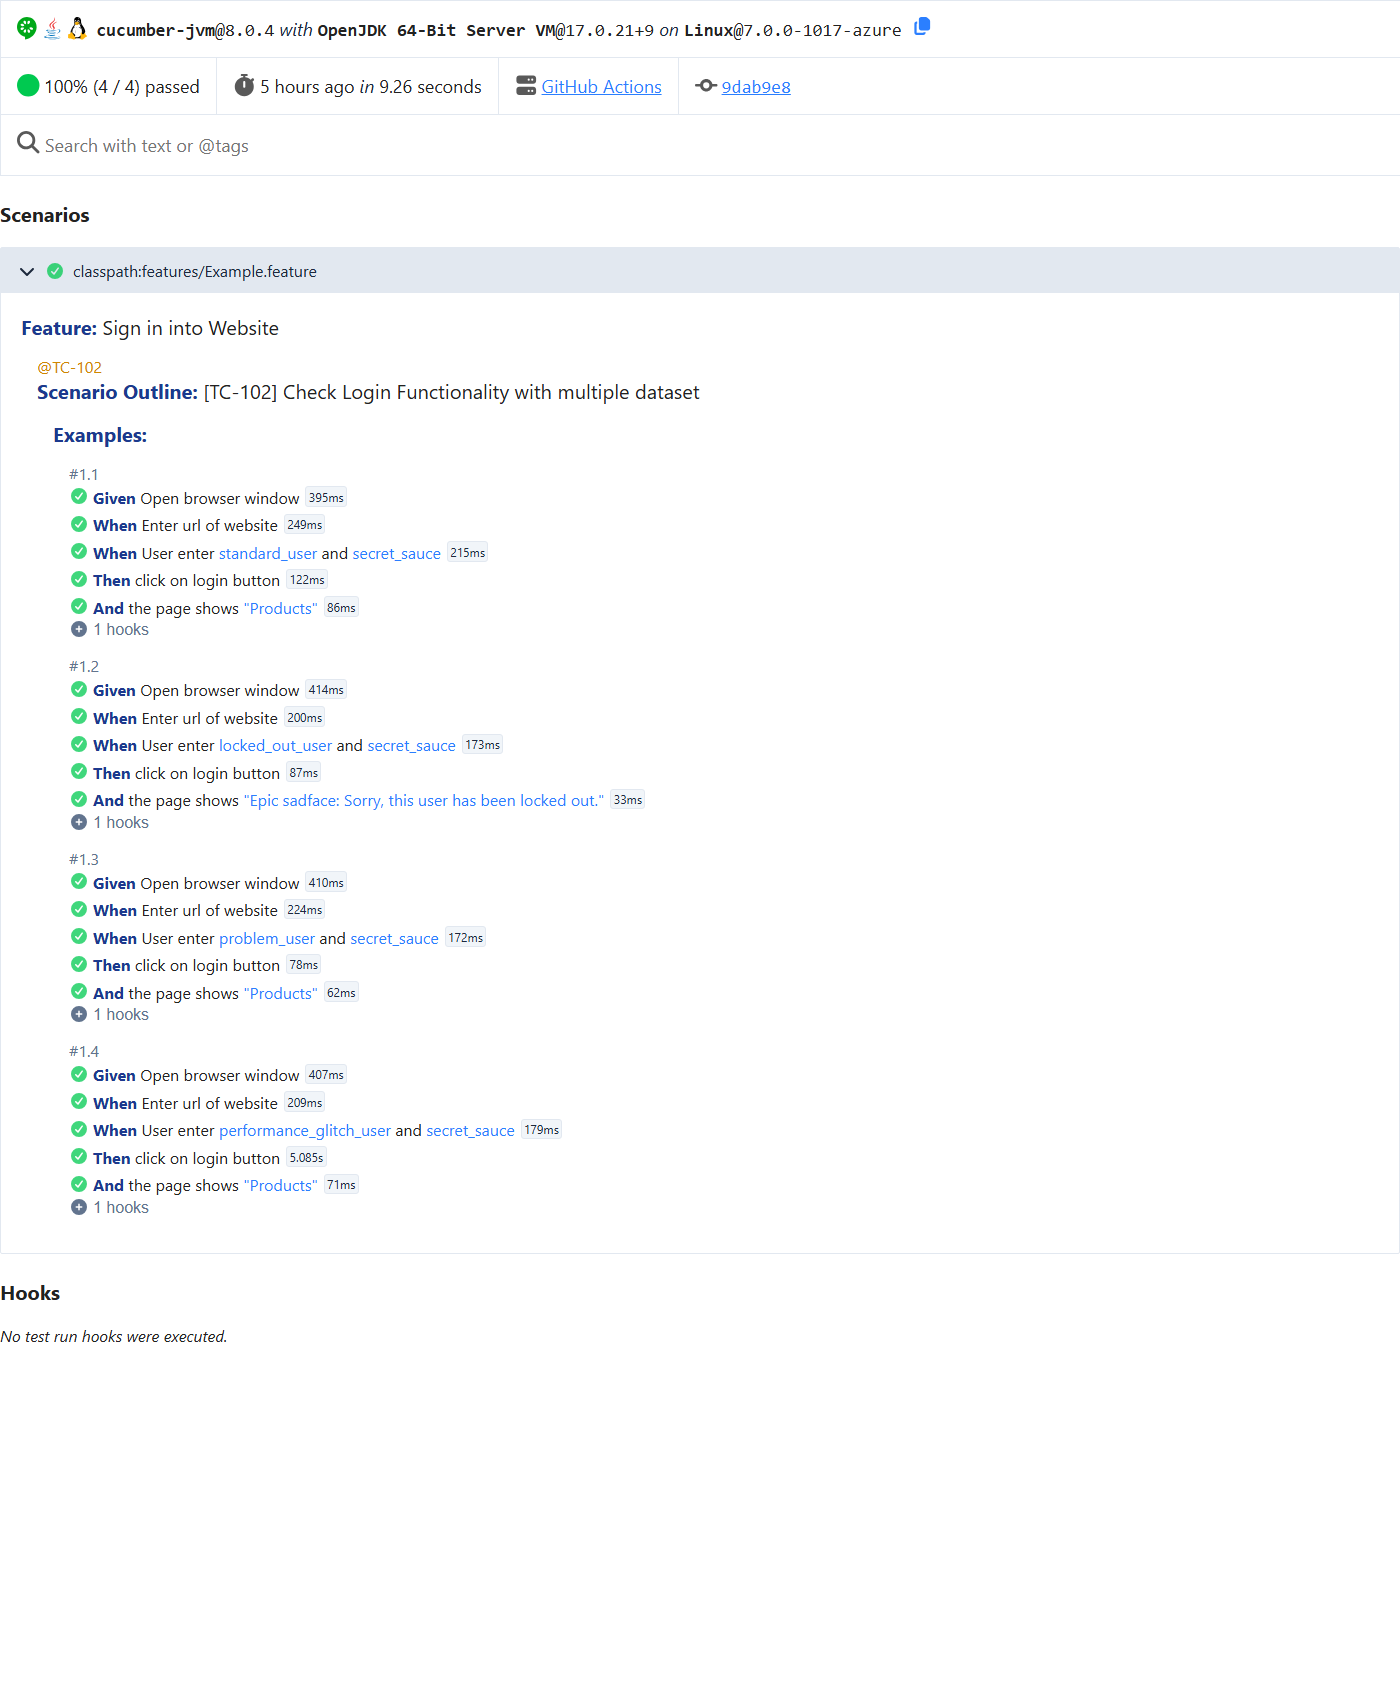
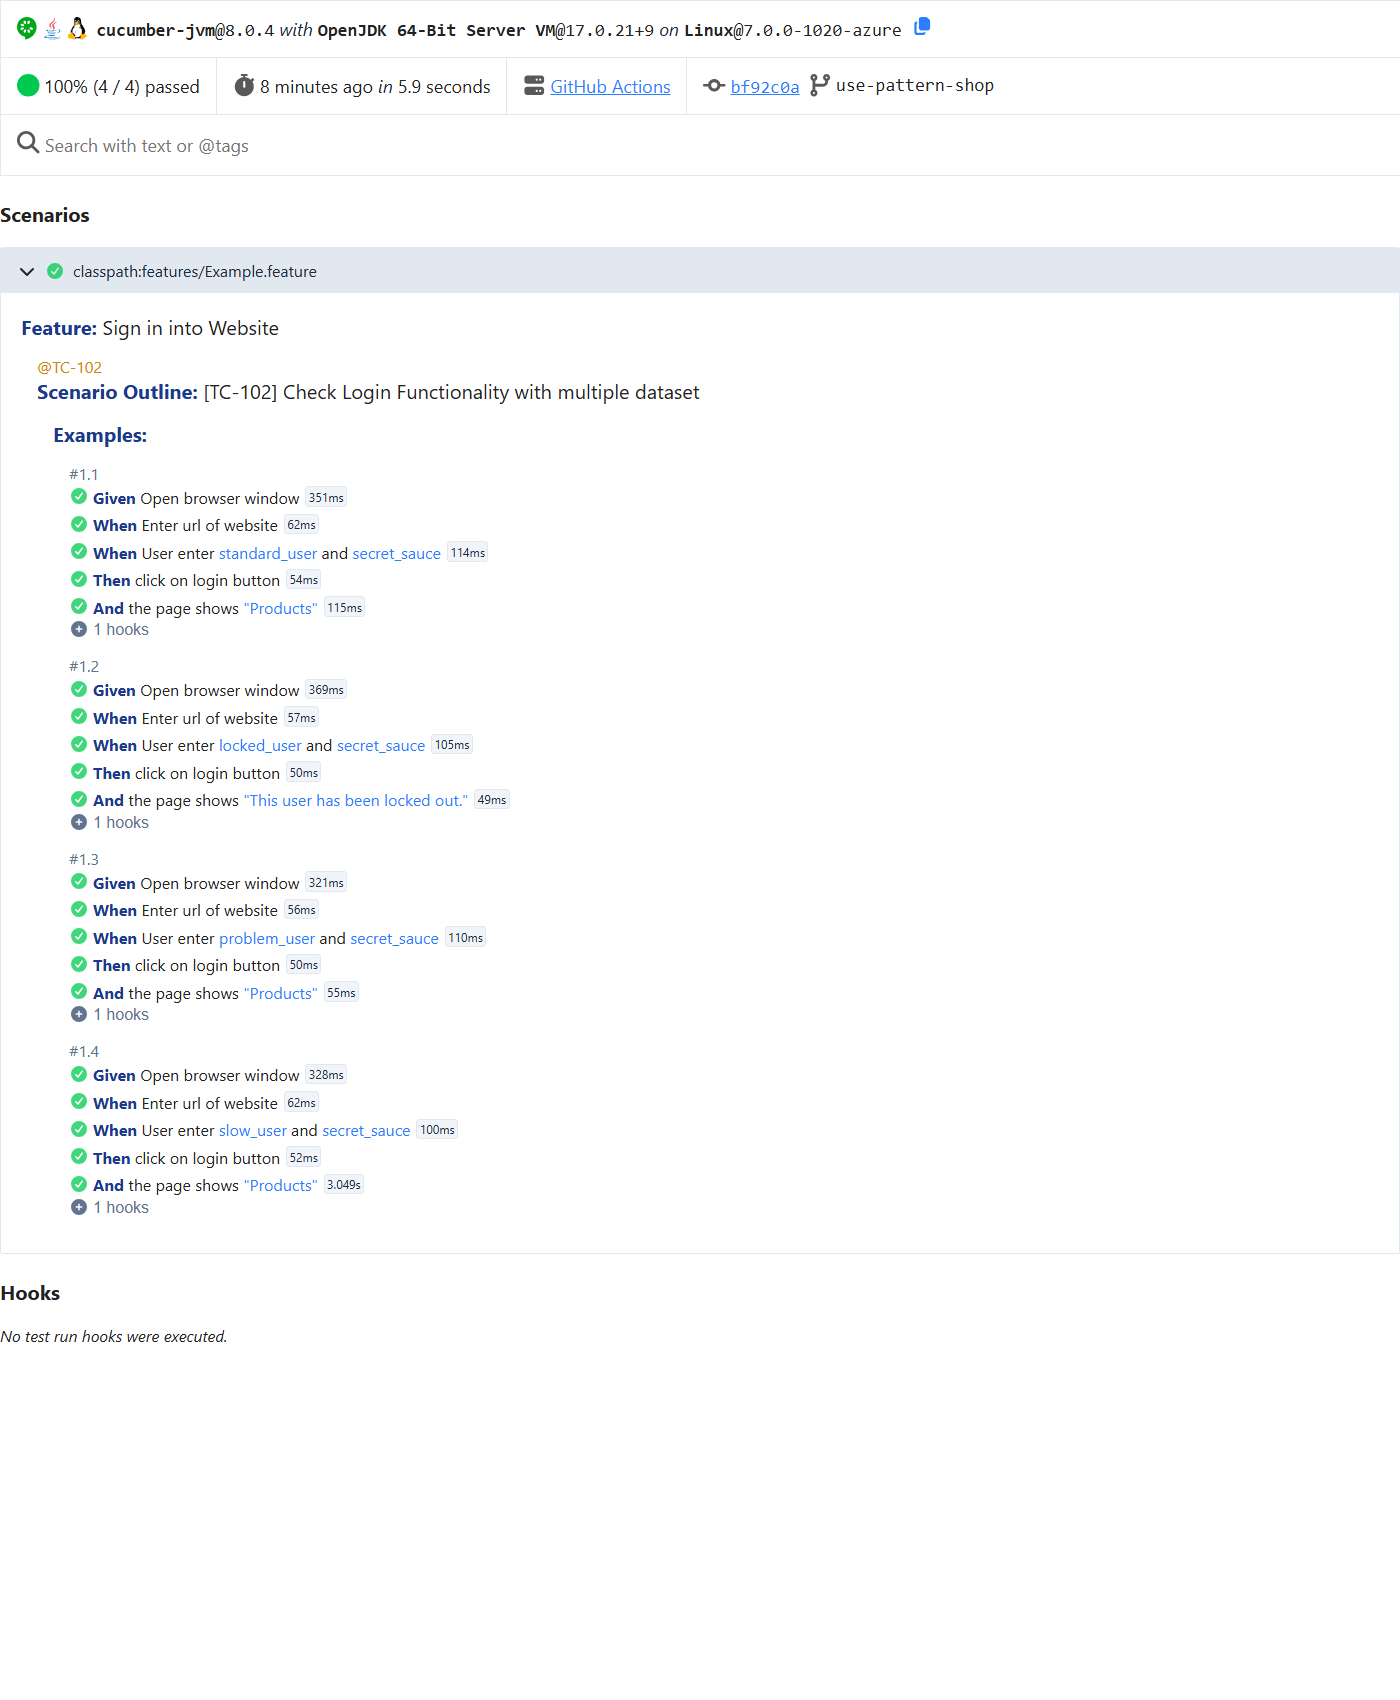
Run the login outline against Pattern Shop instead of saucedemo.com (#7)
* Run the login outline against Pattern Shop instead of saucedemo.com

TC-102 now logs in to my own demo shop, started from its image in CI, so the
outline no longer depends on a public site. Same four kinds of user: standard,
locked, problem and slow (slow_user replaces performance_glitch_user; the wait
still handles it). ShopLoginPage uses the shop's data-testid locators.

* Report screenshot from this branch's CI run (Pattern Shop outline)

---------

diff --git a/src/test/java/com/niranjankagri/cucumberdemo/pages/ShopLoginPage.java b/src/test/java/com/niranjankagri/cucumberdemo/pages/ShopLoginPage.java
@@ -9,30 +9,31 @@ import com.niranjankagri.cucumberdemo.utils.Config;
 import com.niranjankagri.cucumberdemo.utils.DriverManager;
 
 /**
- * Page object of the Sauce Demo login page (saucedemo.com) and what the browser shows
- * after a login attempt.
+ * Page object of the Pattern Shop sign-in page and what the browser shows after a login
+ * attempt. Pattern Shop is my own demo shop (github.com/niranjankagri/pattern-shop-demo-app);
+ * every element a test needs has a data-testid, so the locators do not depend on layout.
  *
  * Holds the locators and page actions; the step definitions (ExampleStpDef) only call
  * these methods and keep the assertions.
  */
-public class SauceDemoLoginPage {
+public class ShopLoginPage {
 
 	// Locators
-	private static final By USERNAME = By.id("user-name");
-	private static final By PASSWORD = By.id("password");
-	private static final By LOGIN_BUTTON = By.id("login-button");
+	private static final By USERNAME = By.cssSelector("[data-testid='username']");
+	private static final By PASSWORD = By.cssSelector("[data-testid='password']");
+	private static final By LOGIN_BUTTON = By.cssSelector("[data-testid='login-button']");
 	// The whole page, to check which text it shows after the login
 	private static final By BODY = By.tagName("body");
 
-	/** Opens the login page (sauceDemoUrl from config.properties). */
+	/** Opens the sign-in page (shopUrl from config.properties). */
 	public void open() {
-		DriverManager.getDriver().get(Config.get("sauceDemoUrl"));
+		DriverManager.getDriver().get(Config.get("shopUrl"));
 	}
 
 	/**
 	 * Types a user name and password into the login form.
 	 *
-	 * @param username a Sauce Demo user, e.g. standard_user
+	 * @param username a Pattern Shop demo user, e.g. standard_user
 	 * @param password its password
 	 */
 	public void enterCredentials(String username, String password) {
@@ -47,7 +48,7 @@ public class SauceDemoLoginPage {
 
 	/**
 	 * Waits until the page contains the text, up to waitSeconds from config.properties
-	 * (performance_glitch_user is slow on purpose).
+	 * (slow_user is slow on purpose).
 	 *
 	 * @param expected text the page must show
 	 * @throws org.openqa.selenium.TimeoutException when the text does not appear in time

diff --git a/src/test/java/com/niranjankagri/cucumberdemo/stepdefinitions/ExampleStpDef.java b/src/test/java/com/niranjankagri/cucumberdemo/stepdefinitions/ExampleStpDef.java
@@ -6,18 +6,18 @@ import io.cucumber.java.en.Given;
 import io.cucumber.java.en.Then;
 import io.cucumber.java.en.When;
 
-import com.niranjankagri.cucumberdemo.pages.SauceDemoLoginPage;
+import com.niranjankagri.cucumberdemo.pages.ShopLoginPage;
 import com.niranjankagri.cucumberdemo.utils.DriverManager;
 
 /**
- * Steps of features/Example.feature: the Sauce Demo login, run once per row of its
+ * Steps of features/Example.feature: the Pattern Shop login, run once per row of its
  * Examples table (four demo users, each with the result the page must show).
- * Locators and page actions are in {@link SauceDemoLoginPage}.
+ * Locators and page actions are in {@link ShopLoginPage}.
  */
 public class ExampleStpDef {
 
-	// Page object of the Sauce Demo login; it uses the browser of the running scenario
-	private final SauceDemoLoginPage loginPage = new SauceDemoLoginPage();
+	// Page object of the Pattern Shop sign-in; it uses the browser of the running scenario
+	private final ShopLoginPage loginPage = new ShopLoginPage();
 
 	/** Starts the browser from config.properties; the @After hook closes it. */
 	@Given("Open browser window")
@@ -25,7 +25,7 @@ public class ExampleStpDef {
 		DriverManager.start();
 	}
 
-	/** Opens the Sauce Demo login page. */
+	/** Opens the Pattern Shop sign-in page. */
 	@When("Enter url of website")
 	public void enter_the_url_of_website() {
 		loginPage.open();

diff --git a/src/test/java/com/niranjankagri/cucumberdemo/runners/ExampleRunner.java b/src/test/java/com/niranjankagri/cucumberdemo/runners/ExampleRunner.java
@@ -10,10 +10,10 @@ import org.junit.platform.suite.api.SelectClasspathResource;
 import org.junit.platform.suite.api.Suite;
 
 /**
- * JUnit Platform suite for Example.feature (Sauce Demo login outline, 4 users).
+ * JUnit Platform suite for Example.feature (Pattern Shop login outline, 4 users).
  * The Cucumber engine runs the feature file from src/test/resources/features, with the step definitions and
  * hooks from the glue packages (stepdefinitions, hooks).
- * Report: target/cucumber-reports/sauce-demo-login.html (and .json); "pretty" prints each step.
+ * Report: target/cucumber-reports/shop-login.html (and .json); "pretty" prints each step.
  * Run alone: mvn test -Dtest=ExampleRunner
  */
 @Suite
@@ -21,7 +21,7 @@ import org.junit.platform.suite.api.Suite;
 @SelectClasspathResource("features/Example.feature")
 @ConfigurationParameter(key = GLUE_PROPERTY_NAME, value = "com.niranjankagri.cucumberdemo.stepdefinitions, com.niranjankagri.cucumberdemo.hooks")
 @ConfigurationParameter(key = PLUGIN_PROPERTY_NAME,
-		value = "pretty, html:target/cucumber-reports/sauce-demo-login.html, json:target/cucumber-reports/sauce-demo-login.json")
+		value = "pretty, html:target/cucumber-reports/shop-login.html, json:target/cucumber-reports/shop-login.json")
 @ConfigurationParameter(key = ANSI_COLORS_DISABLED_PROPERTY_NAME, value = "true")
 public class ExampleRunner {
 }

diff --git a/README.md b/README.md
@@ -8,7 +8,8 @@ browser and config helpers. The commit history shows every step.
 - Layered: runners, step definitions, page objects, hooks and utils in their own packages,
   feature files and settings in `src/test/resources`.
 - Two features: a login on a public practice site, and a Scenario Outline that logs in four
-  Sauce Demo users and checks the result each one must get.
+  users of [Pattern Shop](https://github.com/niranjankagri/pattern-shop-demo-app) (my own demo shop) and checks the
+  result each one must get.
 - Cucumber hooks: one browser per scenario, always closed, a screenshot attached on failure.
 - Browser, headless mode, URLs and waits from `config.properties`, overridable with `-D`.
 - Cucumber HTML and JSON reports per runner, plus a report demo with a failure and a skip on purpose.
@@ -38,7 +39,7 @@ browser and config helpers. The commit history shows every step.
 | Selenium | 4.51.0 (Selenium Manager downloads the browser driver) |
 | Reports | Cucumber HTML + JSON (Jackson 2.22 for the JSON writer) |
 | Build | Maven, Surefire 3.5.6 |
-| Sites under test | [the-internet.herokuapp.com](https://the-internet.herokuapp.com) and [saucedemo.com](https://www.saucedemo.com) (public practice sites) |
+| Sites under test | [the-internet.herokuapp.com](https://the-internet.herokuapp.com) (public practice site) and [Pattern Shop](https://github.com/niranjankagri/pattern-shop-demo-app) (my own demo shop, run from its Docker image) |
 
 ## Project structure
 
@@ -48,7 +49,7 @@ src/test/resources/
   config.properties                 browser, headless, waitSeconds, site URLs, practice-site login
   features/
     cucumber.feature                practice-site login
-    Example.feature                 Sauce Demo login outline (4 users + expected result)
+    Example.feature                 Pattern Shop login outline (4 users + expected result)
     ReportDemo.feature              a failure and a skip on purpose
 src/test/java/com/niranjankagri/cucumberdemo/
   runners/
@@ -61,7 +62,7 @@ src/test/java/com/niranjankagri/cucumberdemo/
     DemoStpDef.java                 the "skipped on purpose" step
   pages/                            page objects: locators + page actions
     PracticeSitePage.java           the-internet.herokuapp.com: home, login form, secure area
-    SauceDemoLoginPage.java         saucedemo.com login and the text shown afterwards
+    ShopLoginPage.java              Pattern Shop sign-in and the text shown afterwards
   hooks/                            glue: runs around every scenario
     Hooks.java                      @After: screenshot on failure, close the browser
   utils/                            helpers without Cucumber annotations
@@ -119,7 +120,7 @@ Step by step:
 3. **Step definitions.** Cucumber matches each step's text to a method in `stepdefinitions`
    (Cucumber expressions, and one regular expression for the outline's `User enter (.*) and (.*)$`).
    The step methods hold no locators: they call the page objects.
-4. **Page objects.** `PracticeSitePage` and `SauceDemoLoginPage` hold the locators and the page
+4. **Page objects.** `PracticeSitePage` and `ShopLoginPage` hold the locators and the page
    actions (open, type, click, read text).
 5. **Browser.** `DriverManager` keeps one browser per scenario (ThreadLocal) for all step classes,
    started by the "Open browser window" steps from `config.properties`.
@@ -147,7 +148,7 @@ Scenario: [TC-101] Test Login Functionality
   And The secure area is shown
 ```
 
-**features/Example.feature** (ExampleRunner): one login per Sauce Demo user, each with the text the page must show.
+**features/Example.feature** (ExampleRunner): one login per Pattern Shop user, each with the text the page must show.
 
 ```gherkin
 @TC-102
@@ -159,11 +160,11 @@ Scenario Outline: [TC-102] Check Login Functionality with multiple dataset
   And the page shows "<result>"
 
   Examples:
-    | username                | password     | result                                              |
-    | standard_user           | secret_sauce | Products                                            |
-    | locked_out_user         | secret_sauce | Epic sadface: Sorry, this user has been locked out. |
-    | problem_user            | secret_sauce | Products                                            |
-    | performance_glitch_user | secret_sauce | Products                                            |
+    | username      | password     | result                         |
+    | standard_user | secret_sauce | Products                       |
+    | locked_user   | secret_sauce | This user has been locked out. |
+    | problem_user  | secret_sauce | Products                       |
+    | slow_user     | secret_sauce | Products                       |
 ```
 
 ## Configuration
@@ -177,17 +178,19 @@ waitSeconds = 10          # how long a step waits for an element or the expected
 practiceSiteUrl = https://the-internet.herokuapp.com/
 practiceUser = tomsmith   # the test user the practice site publishes (not a secret)
 practicePassword = SuperSecretPassword!
-sauceDemoUrl = https://www.saucedemo.com/
+shopUrl = http://localhost:8080/login   # Pattern Shop, see Setup and run
 ```
 
 Any key can be overridden for one run, e.g. `mvn test -Dbrowser=firefox -Dheadless=true`.
 
 ## Setup and run
 
-Requirements: Java 17+, Maven, and Chrome, Firefox or Edge. No driver download is needed:
+Requirements: Java 17+, Maven, Chrome, Firefox or Edge, and Docker for the shop. No driver download is needed:
 Selenium Manager fetches the matching driver on the first run.
 
 ```
+docker run -d -p 8080:8080 ghcr.io/niranjankagri/pattern-shop-demo-app:latest   # Pattern Shop on :8080
+
 mvn test                                  # both features, visible Chrome (5 scenarios)
 mvn test -Dheadless=true                  # headless Chrome
 mvn test -Dbrowser=edge -Dheadless=true   # Edge (also: firefox)
@@ -195,22 +198,23 @@ mvn test -Dtest=ExampleRunner             # one runner only
 ```
 
 Expected: `Tests run: 5, Failures: 0, Errors: 0, Skipped: 0`, checked on visible Chrome and on
-headless Chrome, Edge and Firefox. The sites are public demos, so a slow answer can occasionally
-make a run fail.
+headless Chrome, Edge and Firefox. Without Docker, the hosted shop works too
+(`-DshopUrl=https://pattern-shop.onrender.com/login`; it sleeps when idle, so the first run can take about a
+minute). The practice site is a public demo, so a slow answer can occasionally make TC-101 fail.
 
 ## Reports
 
 | Output | What it shows |
 |---|---|
 | `target/cucumber-reports/practice-site-login.html` | Cucumber report of TestRunner: every step with its duration, errors, attached screenshots |
-| `target/cucumber-reports/sauce-demo-login.html` | the same for ExampleRunner (one block per Examples row) |
+| `target/cucumber-reports/shop-login.html` | the same for ExampleRunner (one block per Examples row) |
 | `target/cucumber-reports/*.json` | the same results as JSON, for other report tools or CI |
 | console | "pretty" output of every step while the run goes |
 
 **Passing run** (ExampleRunner): the four users, each ending with the text the page had to show.
-`performance_glitch_user` is slow on purpose (5 s on the last step), which the wait handles:
+`slow_user` is slow on purpose (3 s on the last step, while the shop signs it in), which the wait handles:
 
-![Cucumber report, Sauce Demo outline](docs/images/report-passing.png)
+![Cucumber report, Pattern Shop outline](docs/images/report-passing.png)
 
 ## Report demo: a failure and a skip on purpose
 
@@ -240,7 +244,7 @@ Each step is its own commit, checked with a run before it was pushed:
 | Driver | Hard-coded `D:\chromedriver_win32` path removed; Selenium Manager finds the driver |
 | Step definitions | Moved from `src/main/java` to `src/test/java` (same package) |
 | Amazon scenario | Replaced by the practice site (Amazon blocks automated logins); new last step checks the login worked |
-| Outline | Had no assertions (even the locked-out user "passed"); now each row states and checks its result |
+| Outline | Had no assertions (even the locked-out user "passed"); now each row states and checks its result. Moved from saucedemo.com to my own Pattern Shop in Nov 2026 (same four kinds of user: standard, locked, problem, slow) |
 | Hooks | One browser per scenario, always closed, screenshot on failure; before, browsers were left open |
 | Configuration | Browser, headless mode, URLs and waits in `config.properties`, with `-D` overrides |
 | Clean-up | Eclipse's unused feature template removed |
@@ -254,14 +258,16 @@ The original Amazon test email and password were replaced by placeholders before
 
 ## Known limitations
 
-- **Live demo sites:** both sites are public and shared; slow answers can make a run flaky.
+- **Live practice site:** the-internet.herokuapp.com is public and shared; slow answers can make TC-101 flaky.
+  TC-102 runs against a fresh Pattern Shop container in CI, so it does not depend on a public site.
 - **Small scope:** two features and five scenarios; it is a learning project. A larger Cucumber
   framework (PicoContainer, custom report, CI) is in
   [cucumber-java-framework](https://github.com/niranjankagri/cucumber-java-framework).
 - **Class names from 2022 kept:** `CucumberStpDef`, `ExampleStpDef`, `TestRunner` and `ExampleRunner`
   keep their original names, so the flow and history stay easy to follow.
-- **CI against live sites:** GitHub Actions runs the scenarios headless on every push, every pull request
-  and once a day (`.github/workflows/tests.yml`); a red daily run can mean the site changed, not the code.
+- **CI:** GitHub Actions starts Pattern Shop from its image, then runs the scenarios headless on every push,
+  every pull request and once a day (`.github/workflows/tests.yml`); a red daily run can mean the practice site
+  changed, not the code.
   The JUnit XML is kept as the **junit-tests** artifact, which [Automation Coverage & Quality Intelligence](https://github.com/niranjankagri/automation-coverage-quality-intelligence)
   collects. `main` is protected by a ruleset: changes go through a pull request, and this job must pass first.
   Dependabot proposes dependency and GitHub Actions updates once a month (minor and patch

diff --git a/docs/manual-test-cases.md b/docs/manual-test-cases.md
@@ -10,7 +10,8 @@ Not listed: `ReportDemo.feature`, which fails and skips on purpose to show the r
 ## Setup
 
 - TC-101: <https://the-internet.herokuapp.com/>, user `tomsmith`, password `SuperSecretPassword!`.
-- TC-102: <https://www.saucedemo.com/>, password `secret_sauce` for every user.
+- TC-102: Pattern Shop at <http://localhost:8080/login> (`docker run -d -p 8080:8080 ghcr.io/niranjankagri/pattern-shop-demo-app`)
+  or the hosted demo <https://pattern-shop.onrender.com/login>; password `secret_sauce` for every user.
   (Both from `src/test/resources/config.properties`.)
 
 ## Summary
@@ -18,7 +19,7 @@ Not listed: `ReportDemo.feature`, which fails and skips on purpose to show the r
 | ID | Title | Type | Priority | Feature file (runner) |
 |---|---|---|---|---|
 | TC-101 | Login on the practice site reaches the secure area | Smoke | High | `cucumber.feature` (`TestRunner`) |
-| TC-102 | Sauce Demo login with several users (4 data sets) | Regression | High | `Example.feature` (`ExampleRunner`, Scenario Outline) |
+| TC-102 | Pattern Shop login with several users (4 data sets) | Regression | High | `Example.feature` (`ExampleRunner`, Scenario Outline) |
 
 ---
 
@@ -30,14 +31,14 @@ Not listed: `ReportDemo.feature`, which fails and skips on purpose to show the r
 | 2 | Click **Form Authentication** | Login form |
 | 3 | Username `tomsmith`, password `SuperSecretPassword!`, click **Login** | Message "You logged into a secure area!"; URL ends with `/secure` |
 
-### TC-102 Sauce Demo login with several users
+### TC-102 Pattern Shop login with several users
 
-For every data set: open <https://www.saucedemo.com/>, enter the user and `secret_sauce`, click
-**Login**. Expected: the page shows the text in the last column.
+For every data set: open the shop's sign-in page, enter the user and `secret_sauce`, click
+**Sign in**. Expected: the page shows the text in the last column.
 
 | Data set | Username | Expected text |
 |---|---|---|
 | 1 | `standard_user` | Products |
-| 2 | `locked_out_user` | Epic sadface: Sorry, this user has been locked out. |
+| 2 | `locked_user` | This user has been locked out. |
 | 3 | `problem_user` | Products |
-| 4 | `performance_glitch_user` | Products (the page takes noticeably longer to open) |
+| 4 | `slow_user` | Products (the page takes about 3 seconds to open) |
